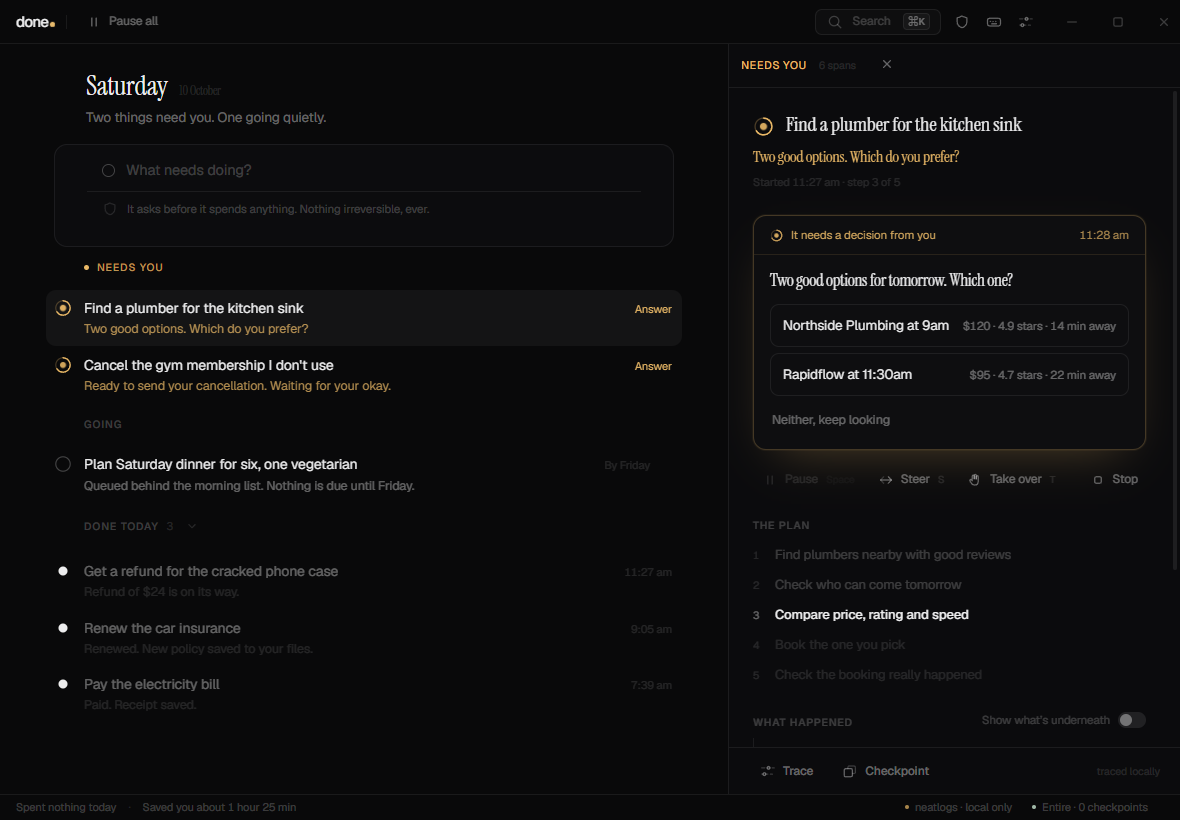
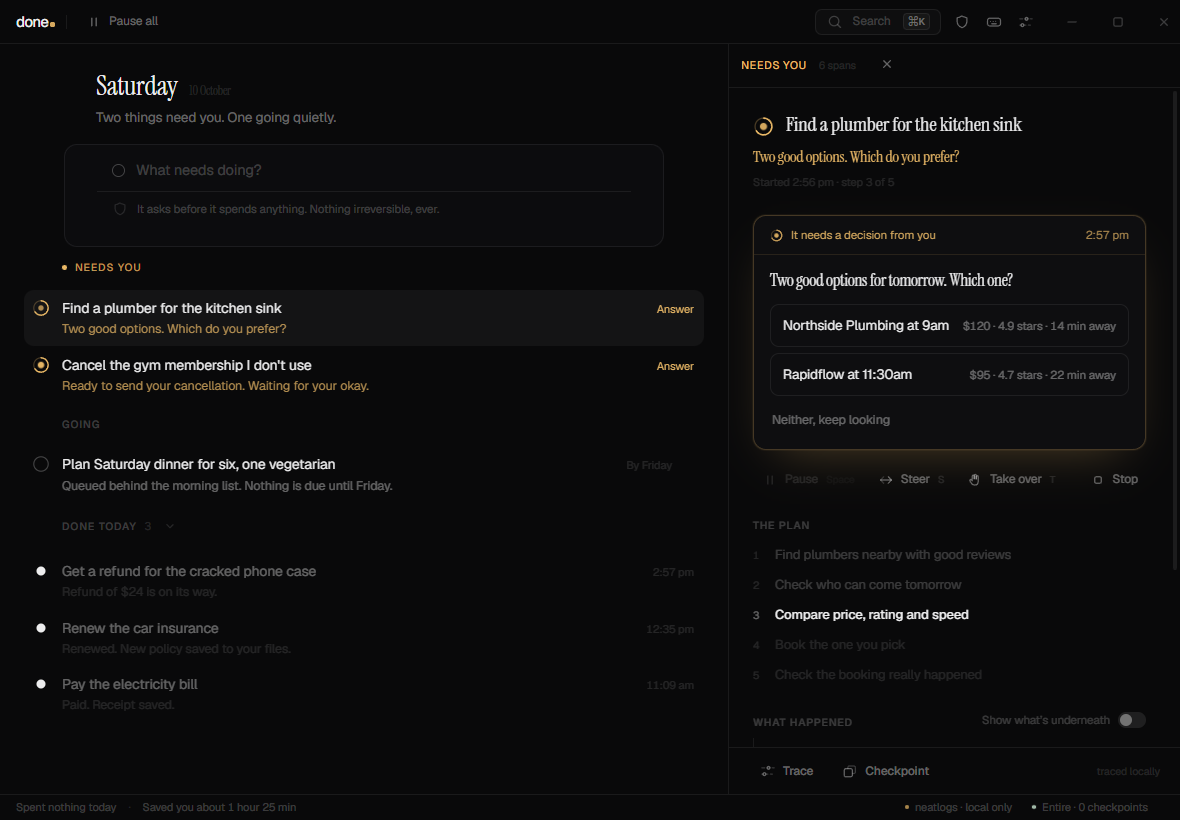
fix(ui): full screen, hover label, pane animation, flat surfaces, input focus

diff --git a/desktop-app/src/renderer/src/components/Detail.tsx b/desktop-app/src/renderer/src/components/Detail.tsx
@@ -25,10 +25,18 @@ export function Detail({ task, state }: { task: Task; state: AppState }): React.
   const showTrace = useUI((s) => s.showTrace)
   const [steering, setSteering] = useState(false)
   const [steerText, setSteerText] = useState('')
+  const [steeredFor, setSteeredFor] = useState<string | null>(null)
   const steerRef = useRef<HTMLInputElement>(null)
 
-  // `Detail` is keyed by task id in App, so switching tasks remounts it and
-  // the steering field starts closed without an effect to reset it.
+  // The pane stays mounted as you move between tasks, so the steering field
+  // resets by comparing ids during render rather than in an effect. (React's
+  // documented "adjusting state when a prop changes" pattern.)
+  if (steeredFor !== null && steeredFor !== task.id) {
+    setSteeredFor(null)
+    setSteering(false)
+    setSteerText('')
+  }
+
   useEffect(() => {
     if (steering) steerRef.current?.focus()
   }, [steering])
@@ -50,11 +58,11 @@ export function Detail({ task, state }: { task: Task; state: AppState }): React.
 
   return (
     <motion.aside
-      initial={{ x: 28, opacity: 0 }}
+      initial={{ x: 24, opacity: 0 }}
       animate={{ x: 0, opacity: 1 }}
-      exit={{ x: 24, opacity: 0 }}
-      transition={{ duration: 0.34, ease: [0.16, 1, 0.3, 1] }}
-      className="flex h-full w-[452px] shrink-0 flex-col border-l border-line bg-ink-1/35"
+      exit={{ x: 18, opacity: 0 }}
+      transition={{ duration: 0.32, ease: [0.16, 1, 0.3, 1] }}
+      className="flex h-full w-[452px] shrink-0 flex-col border-l border-line bg-ink-0"
       aria-label={`${task.title} — details`}
     >
       {/* header */}
@@ -117,7 +125,10 @@ export function Detail({ task, state }: { task: Task; state: AppState }): React.
                 label="Steer"
                 kbd="S"
                 dataSteer
-                onClick={() => setSteering((v) => !v)}
+                onClick={() => {
+                  setSteeredFor(task.id)
+                  setSteering((v) => !v)
+                }}
                 on={steering}
                 disabled={task.state === 'you'}
               />
@@ -153,6 +164,7 @@ export function Detail({ task, state }: { task: Task; state: AppState }): React.
                     if (!v) return
                     void api.steer(task.id, v)
                     setSteerText('')
+                    setSteeredFor(null)
                     setSteering(false)
                     toast('Told it. It’ll hold that from here.')
                   }}
@@ -164,7 +176,11 @@ export function Detail({ task, state }: { task: Task; state: AppState }): React.
                       maxLength={120}
                       placeholder="Say what to change — “cheaper”, “not Fridays”…"
                       onChange={(e) => setSteerText(e.target.value)}
-                      onKeyDown={(e) => e.key === 'Escape' && setSteering(false)}
+                      onKeyDown={(e) => {
+                        if (e.key !== 'Escape') return
+                        setSteeredFor(null)
+                        setSteering(false)
+                      }}
                       className="min-w-0 flex-1 bg-transparent text-[13px] placeholder:text-fg-5"
                     />
                     <button

diff --git a/desktop-app/src/renderer/src/components/TaskList.tsx b/desktop-app/src/renderer/src/components/TaskList.tsx
@@ -62,7 +62,7 @@ export function Composer({ limits }: { limits: Limits }): React.JSX.Element {
         submit()
       }}
       className={cx(
-        'mx-auto w-full max-w-[620px] px-8 pt-1 pb-5',
+        'column pt-1 pb-5',
         'rounded-[13px] border bg-ink-1/60 transition-colors duration-200',
         typing ? 'border-line-2 bg-ink-1' : 'border-line hover:border-line-2'
       )}
@@ -188,7 +188,7 @@ export function TaskList({ state }: { state: AppState }): React.JSX.Element {
 
   return (
     <div className="min-h-0 flex-1 overflow-y-auto px-8">
-      <div className="mx-auto w-full max-w-[620px] pb-10">
+      <div className="mx-auto w-full max-w-[47.5rem] pb-10">
         {empty && <EmptyState />}
 
         {groups.needs.length > 0 && (
@@ -330,10 +330,8 @@ function Row({ task, open }: { task: Task; open: boolean }): React.JSX.Element {
   const showHot = task.state === 'working' || task.state === 'snag' || task.state === 'waiting'
 
   return (
-    <motion.div
-      layout="position"
+    <div
       data-row={task.id}
-      transition={{ type: 'spring', stiffness: 520, damping: 46, mass: 0.7 }}
       className={cx(
         'group relative -mx-2 flex cursor-default items-start gap-3 rounded-[10px] px-2 py-[9px]',
         'transition-colors duration-150',
@@ -370,9 +368,12 @@ function Row({ task, open }: { task: Task; open: boolean }): React.JSX.Element {
             {side && (
               <span
                 className={cx(
-                  'num text-[11px] whitespace-nowrap transition-opacity',
+                  'num text-[11px] whitespace-nowrap transition-opacity duration-150',
                   task.state === 'needs' ? 'text-needs' : 'text-fg-5',
-                  'group-hover:opacity-0'
+                  // Only step aside for the hover controls that replace it.
+                  // "Answer" is the call to action — it must never vanish
+                  // because the pointer happened to land on the row.
+                  showHot && task.state !== 'needs' && 'group-hover:opacity-0'
                 )}
               >
                 {side}
@@ -384,7 +385,7 @@ function Row({ task, open }: { task: Task; open: boolean }): React.JSX.Element {
 
         <TaskLine task={task} />
       </div>
-    </motion.div>
+    </div>
   )
 }
 

diff --git a/desktop-app/src/main/index.ts b/desktop-app/src/main/index.ts
@@ -65,11 +65,6 @@ function createWindow(): BrowserWindow {
     y: bounds.y,
     minWidth: 940,
     minHeight: 620,
-    // This is a focused app. One list, one detail pane, one decision at a
-    // time — a 27-inch canvas full of empty space helps nobody, so the
-    // window is allowed to be generous but never vaster than the work.
-    maxWidth: 1400,
-    maxHeight: 1000,
     show: false,
     frame: false,
     backgroundColor: '#09090a',
@@ -262,7 +257,14 @@ function buildMenu(getWindow: () => BrowserWindow | null): void {
         { role: 'zoomIn' },
         { role: 'zoomOut' },
         { type: 'separator' },
-        { role: 'togglefullscreen' },
+        {
+          label: 'Full Screen',
+          accelerator: 'F11',
+          click: () => {
+            const w = getWindow()
+            if (w) w.setFullScreen(!w.isFullScreen())
+          }
+        },
         ...(is.dev ? ([{ role: 'toggleDevTools' }] as Electron.MenuItemConstructorOptions[]) : [])
       ]
     },
@@ -414,13 +416,17 @@ function registerIpc(): void {
     if (/^https?:\/\//i.test(url)) void shell.openExternal(url)
   })
 
-  ipcMain.handle('window:action', (_e, action: 'minimize' | 'maximize' | 'close') => {
-    if (!windowRef) return
-    if (action === 'minimize') windowRef.minimize()
-    else if (action === 'maximize')
-      windowRef.isMaximized() ? windowRef.unmaximize() : windowRef.maximize()
-    else windowRef.close()
-  })
+  ipcMain.handle(
+    'window:action',
+    (_e, action: 'minimize' | 'maximize' | 'close' | 'fullscreen') => {
+      if (!windowRef) return
+      if (action === 'minimize') windowRef.minimize()
+      else if (action === 'maximize')
+        windowRef.isMaximized() ? windowRef.unmaximize() : windowRef.maximize()
+      else if (action === 'fullscreen') windowRef.setFullScreen(!windowRef.isFullScreen())
+      else windowRef.close()
+    }
+  )
 
   ipcMain.handle('window:is-maximized', () => Boolean(windowRef?.isMaximized()))
 }

diff --git a/desktop-app/src/renderer/src/App.tsx b/desktop-app/src/renderer/src/App.tsx
@@ -42,13 +42,15 @@ export default function App(): React.JSX.Element {
               <TaskList state={state} />
             </main>
 
-            <AnimatePresence mode="popLayout" initial={false}>
+            {/* No `mode="popLayout"` and no `key` on purpose. `popLayout`
+                pops the exiting pane out of flow, which re-measures the list
+                beside it and slides every row; keying by task id remounts
+                the whole pane on each click for the same reason. The pane
+                animates only as it opens and closes — switching tasks
+                animates the content inside it instead. */}
+            <AnimatePresence initial={false}>
               {openId && state.tasks.find((t) => t.id === openId) && (
-                <Detail
-                  key={openId}
-                  task={state.tasks.find((t) => t.id === openId)!}
-                  state={state}
-                />
+                <Detail task={state.tasks.find((t) => t.id === openId)!} state={state} />
               )}
             </AnimatePresence>
           </div>

diff --git a/desktop-app/src/renderer/src/components/StatusBar.tsx b/desktop-app/src/renderer/src/components/StatusBar.tsx
@@ -12,7 +12,7 @@ export function StatusBar({ state }: { state: AppState }): React.JSX.Element {
   const { ledger, integrations } = state
 
   return (
-    <footer className="flex h-[26px] shrink-0 items-center gap-3 border-t border-line bg-ink-0/80 px-4 text-[11px] text-fg-4 select-none">
+    <footer className="flex h-[26px] shrink-0 items-center gap-3 border-t border-line bg-ink-0 px-4 text-[11px] text-fg-4 select-none">
       <span className="num">
         {ledger.spent > 0
           ? `Spent ${money(ledger.spent)} today, all approved by you`
@@ -127,7 +127,7 @@ export function DayHeader({ state }: { state: AppState }): React.JSX.Element {
   const date = today.toLocaleDateString(undefined, { month: 'long', day: 'numeric' })
 
   return (
-    <div className="mx-auto w-full max-w-[620px] px-8 pt-7 pb-4">
+    <div className="column pt-7 pb-4">
       <h1 className="voice flex items-baseline gap-3 text-[27px] leading-none text-fg">
         {dayName}
         <span className="num text-[12px] font-normal text-fg-5">{date}</span>

diff --git a/desktop-app/src/renderer/src/styles.css b/desktop-app/src/renderer/src/styles.css
@@ -161,6 +161,14 @@
     border-radius: 5px;
   }
 
+  /* Text fields carry their own focus state — the caret and the border of
+     whatever contains them. A ring on top of that is noise. */
+  input:focus-visible,
+  textarea:focus-visible,
+  [data-composer]:focus-visible {
+    outline: none;
+  }
+
   ::-webkit-scrollbar {
     width: 10px;
     height: 10px;
@@ -203,6 +211,18 @@
 
 @utility num {
   font-variant-numeric: tabular-nums;
+}
+
+/**
+ * The reading column. Grows a little on a big display so the list never
+ * looks marooned in the middle of a maximised window, but stops well short
+ * of stretching a to-do item into a paragraph.
+ */
+@utility column {
+  width: 100%;
+  margin-inline: auto;
+  padding-inline: 2rem;
+  max-width: clamp(37.5rem, 42vw, 47.5rem);
 }
 
 /* A sentence that changes crossfades rather than snapping. */

diff --git a/desktop-app/src/renderer/src/components/TitleBar.tsx b/desktop-app/src/renderer/src/components/TitleBar.tsx
@@ -25,9 +25,10 @@ export function TitleBar({ state }: { state: AppState }): React.JSX.Element {
   return (
     <header
       className={cx(
-        'drag relative z-30 flex h-11 shrink-0 items-center border-b border-line bg-ink-0/85',
-        'backdrop-blur-xl'
+        'drag relative z-30 flex h-11 shrink-0 items-center border-b border-line bg-ink-0'
       )}
+      // Double-clicking the bar maximises, the way a native window does.
+      onDoubleClick={() => void window.done.windowAction('maximize')}
     >
       {/* wordmark */}
       <div className={cx('flex items-center', isMac ? 'pl-[78px]' : 'pl-4')}>

diff --git a/desktop-app/src/renderer/src/hooks.ts b/desktop-app/src/renderer/src/hooks.ts
@@ -30,6 +30,13 @@ export function useHotkeys(state: AppState | null): void {
       const overlay = Boolean(sheet) || palette
       const mod = e.metaKey || e.ctrlKey
 
+      // Full screen, the way every other app offers it.
+      if (e.key === 'F11' || (mod && e.shiftKey && e.key.toLowerCase() === 'f')) {
+        e.preventDefault()
+        void window.done.windowAction('fullscreen')
+        return
+      }
+
       if (mod && e.key.toLowerCase() === 'k') {
         e.preventDefault()
         togglePalette()

diff --git a/desktop-app/src/shared/types.ts b/desktop-app/src/shared/types.ts
@@ -217,7 +217,7 @@ export interface DoneApi {
   checkpoint(taskId: string): Promise<{ ok: boolean; id: string | null; message: string }>
   revealData(): Promise<void>
   openExternal(url: string): Promise<void>
-  windowAction(action: 'minimize' | 'maximize' | 'close'): Promise<void>
+  windowAction(action: 'minimize' | 'maximize' | 'close' | 'fullscreen'): Promise<void>
 }
 
 /* ---------------------------------------------------------------- commands */

diff --git a/desktop-app/src/main/capture.ts b/desktop-app/src/main/capture.ts
@@ -149,6 +149,12 @@ export async function captureSequence(getWindow: () => BrowserWindow | null): Pr
     await wait(1400)
     await shot('10-checkpointed')
     await key('Escape')
+    await wait(600)
+
+    // Maximised, the way the window behaves on a real display.
+    await js(`window.done.windowAction('maximize')`, 'maximize')
+    await wait(1200)
+    await shot('11-maximised')
 
     step('done')
   } catch (err) {

diff --git a/hackathon.md b/hackathon.md
@@ -82,8 +82,12 @@ is generated by `describeSpan()` from the live span record.
    trace sheet states how many earlier steps were carried over rather than showing a
    quietly shorter tree.
 5. Copy bug: "One thing **need** you" — the singular branch didn't pluralise the verb.
-6. Window opened at 1920 px with a 620 px column floating in a void. Capped the
-   window at 1400×1000. A focused app doesn't need 27 inches of canvas.
+6. Window opened at 1920 px with a 620 px column floating in a void. First attempt
+   capped the window at 1400×1000, which was the wrong fix — a desktop app that
+   refuses to fill the screen is worse than the problem. The cap is gone: the window
+   maximises and goes full screen (F11, double-click the bar, or the View menu), and
+   the reading column now scales as `clamp(37.5rem, 42vw, 47.5rem)` so it grows a
+   little on a big display without stretching a to-do item into a paragraph.
 7. Animations froze half-finished whenever the window lost focus — Chromium throttles
    `requestAnimationFrame` for backgrounded renderers, so the crossfaded sentences and
    sheet transitions stalled. Set `backgroundThrottling: false`.
